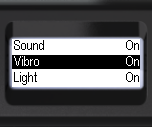
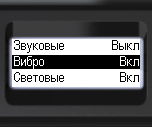
GITBOOK-31: No subject

diff --git a/guide/settings/6-signals-sound-vibration-light.md b/guide/settings/6-signals-sound-vibration-light.md
@@ -31,19 +31,18 @@ Separate permissions to play alarm sounds, buttons, clicks are available.
 | ![](<../../.gitbook/assets/settings\_modality\_Zv\_per\_h\_f (8).png>)                          | <p>- Briefly press the up/down rocker buttons to move the focus to <strong>[Signals]</strong>;<br>- Short press the round button to move the focus to <strong>[Signals].</strong></p>                                                                                                                                                                                                 | ![](<../../.gitbook/assets/settings\_signalisation\_selected\_f (1).png>)                        |
 | ----------------------------------------------------------------------------------------------- | ------------------------------------------------------------------------------------------------------------------------------------------------------------------------------------------------------------------------------------------------------------------------------------------------------------------------------------------------------------------------------------- | ------------------------------------------------------------------------------------------------ |
 | ![](<../../.gitbook/assets/settings\_signalisation\_sound\_on\_selected\_vibro\_on\_f (1).png>) | <p>- Briefly press the up/down swing buttons to move the focus to the item <strong>[Sound]</strong>;<br>- Short presses on the round button to select the sound signaling mode:<strong>[On]</strong> - all allowed sounds;<strong>[Off]</strong> - only the sounds of searching for the instrument and going out of the measuring scale remain, if it is allowed by the settings.</p> | ![](<../../.gitbook/assets/settings\_signalisation\_sound\_off\_selected\_vibro\_on\_f (1).png>) |
-| ![](<../../.gitbook/assets/settings\_signalisation\_vibro\_selected\_on\_f (1).png>)            | <p>- Vibration and light modes can be set in the same way:<br><br>- Move the focus to <strong>[Vibro]</strong> or <strong>[Light]</strong> by short presses on the up/down swing buttons;<br>- Short presses on the round button to select the <strong>[On]</strong> or <strong>[Off]</strong> mode.</p>                                                                              | ![](../../.gitbook/assets/settings\_signalisation\_light\_selected\_on\_f.png)                   |
+| ![](<../../.gitbook/assets/settings\_signalisation\_vibro\_selected\_on\_f (2).png>)            | <p>- Vibration and light modes can be set in the same way:<br><br>- Move the focus to <strong>[Vibro]</strong> or <strong>[Light]</strong> by short presses on the up/down swing buttons;<br>- Short presses on the round button to select the <strong>[On]</strong> or <strong>[Off]</strong> mode.</p>                                                                              | ![](../../.gitbook/assets/settings\_signalisation\_light\_selected\_on\_f.png)                   |
 | ![](../../.gitbook/assets/settings\_signalisation\_click\_selected\_on\_f.png)                  | <p>- The presence of gamma and X-ray photon registration clicks can be controlled separately.<br>- By short presses on the up/down swing buttons move the focus to the item <strong>[Clicks]</strong>;<br>- Short presses on the round button to select the <strong>[On]</strong> or <strong>[Off]</strong> mode.</p>                                                                 | ![](../../.gitbook/assets/settings\_signalisation\_click\_selected\_off\_f.png)                  |
 | ![](../../.gitbook/assets/settings\_signalisation\_keysound\_selected\_f.png)                   | <p>- Briefly press the up/down swing buttons to move the focus to the <strong>[Buttons]</strong>;<br>- Short press the up/down swing buttons to move the focus to <strong>[Buttons]</strong> or <strong>[Vibro]</strong>;<br>- Short press the round button to select the desired response type.</p>                                                                                  | ![](<../../.gitbook/assets/settings\_signalisation\_sound\_off\_selected\_vibro\_on\_f (2).png>) |
 
-| /                                                                   | <p>- Separately, you can control the presence of the device connection and disconnection signal.<br><br>- Briefly press the up/down swing buttons to move the focus to <strong>[Connection]</strong>;<br>- Short press the round button to select**[On]** or <strong>[Off].</strong></p> |   |
-| ------------------------------------------------------------------- | ---------------------------------------------------------------------------------------------------------------------------------------------------------------------------------------------------------------------------------------------------------------------------------------- | - |
-| !\[\[settings\_signalisation\_power\_selected\_f.png]]              | <p>- The presence of the on/off signal can be controlled separately.<br><br>- Short press the up/down swing buttons to move the focus to <strong>[Power]</strong>;<br>- Short press the round button to select**[On]** or <strong>[Off].</strong></p>                                    |   |
-| !\[\[settings\_signalisation\_alarms\_selected\_f.png]]             | <p>- To set the alarms, move the focus to <strong>[Alarms]</strong>;<br>- Press the round button briefly to confirm your selection.</p>                                                                                                                                                  |   |
-| !\[\[settings\_signals\_mode\_selected\_f.png]]                     | - Short presses on the round button to select the alarm indication mode\*\*\[One-shot]\*\* or **\[Continuous]**.                                                                                                                                                                         |   |
-| !\[\[settings\_signalisation\_alarms\_dose\_rate\_selected\_f.png]] | <p>- To select an alarm channel, move the focus to the desired item, e.g. <strong>[Dose rate]</strong>;<br>- Press the round button briefly to confirm your selection.</p>                                                                                                               |   |
-| !\[\[settings\_signalisation\_common\_alarm\_1\_selected\_f.png]]   | <p>- Briefly press the up/down swing buttons to move the focus to the desired alarm level**[Alarm 1]** or <strong>[Alarm 2]</strong>;<br>- Press the round button briefly to confirm your selection.</p>                                                                                 |   |
+| ![](../../.gitbook/assets/settings\_signalisation\_connects\_selected\_f.png)           | <p>- Separately, you can control the presence of the device connection and disconnection signal.<br><br>- Briefly press the up/down swing buttons to move the focus to <strong>[Connection]</strong>;<br>- Short press the round button to select**[On]** or <strong>[Off].</strong></p> |   |
+| --------------------------------------------------------------------------------------- | ---------------------------------------------------------------------------------------------------------------------------------------------------------------------------------------------------------------------------------------------------------------------------------------- | - |
+| ![](../../.gitbook/assets/settings\_signalisation\_power\_selected\_f.png)              | <p>- The presence of the on/off signal can be controlled separately.<br><br>- Short press the up/down swing buttons to move the focus to <strong>[Power]</strong>;<br>- Short press the round button to select**[On]** or <strong>[Off].</strong></p>                                    |   |
+| ![](../../.gitbook/assets/settings\_signalisation\_alarms\_selected\_f.png)             | <p>- To set the alarms, move the focus to <strong>[Alarms]</strong>;<br>- Press the round button briefly to confirm your selection.</p>                                                                                                                                                  |   |
+| ![](../../.gitbook/assets/settings\_signals\_mode\_selected\_f.png)                     | - Short presses on the round button to select the alarm indication mode\*\*\[One-shot]\*\* or **\[Continuous]**.                                                                                                                                                                         |   |
+| ![](../../.gitbook/assets/settings\_signalisation\_alarms\_dose\_rate\_selected\_f.png) | <p>- To select an alarm channel, move the focus to the desired item, e.g. <strong>[Dose rate]</strong>;<br>- Press the round button briefly to confirm your selection.</p>                                                                                                               |   |
+| ![](../../.gitbook/assets/settings\_signalisation\_common\_alarm\_1\_selected\_f.png)   | <p>- Briefly press the up/down swing buttons to move the focus to the desired alarm level**[Alarm 1]** or <strong>[Alarm 2]</strong>;<br>- Press the round button briefly to confirm your selection.</p>                                                                                 |   |
 
-|                                                                     |                                                                                                                                                                                                                                                                     |                                                                         |
-| ------------------------------------------------------------------- | ------------------------------------------------------------------------------------------------------------------------------------------------------------------------------------------------------------------------------------------------------------------- | ----------------------------------------------------------------------- |
-| !\[\[settings\_signalisation\_sound\_selected\_on\_f.png]]          | <p>- Short press the up/down swing buttons to move the focus to <strong>[Sound]</strong> or <strong>[Vibration]</strong>;<br>- Short press the round button to select**[On]** or <strong>[Off]</strong>;</p>                                                        | !\[\[settings\_signalisation\_vibro\_selected\_on\_f.png]]              |
-| !\[\[settings\_signalisation\_sound\_on\_vibro\_on\_return\_f.png]] | <p>- To return to the previous level or exit the menu, briefly press the up/down swing buttons to move the focus to <strong>[&#x3C; Back]</strong> or <strong>[&#x3C;&#x3C; Menu quit]</strong>;<br>- Briefly press the round button to confirm your selection.</p> | !\[\[settings\_signalisation\_sound\_on\_vibro\_on\_outoffmenu\_f.png]] |
+| ![](../../.gitbook/assets/settings\_signalisation\_sound\_selected\_on\_f.png)          | <p>- Short press the up/down swing buttons to move the focus to <strong>[Sound]</strong> or <strong>[Vibration]</strong>;<br>- Short press the round button to select**[On]** or <strong>[Off]</strong>;</p>                                                        | ![](../../.gitbook/assets/settings\_signalisation\_vibro\_selected\_on\_f.png)              |
+| --------------------------------------------------------------------------------------- | ------------------------------------------------------------------------------------------------------------------------------------------------------------------------------------------------------------------------------------------------------------------- | ------------------------------------------------------------------------------------------- |
+| ![](../../.gitbook/assets/settings\_signalisation\_sound\_on\_vibro\_on\_return\_f.png) | <p>- To return to the previous level or exit the menu, briefly press the up/down swing buttons to move the focus to <strong>[&#x3C; Back]</strong> or <strong>[&#x3C;&#x3C; Menu quit]</strong>;<br>- Briefly press the round button to confirm your selection.</p> | ![](../../.gitbook/assets/settings\_signalisation\_sound\_on\_vibro\_on\_outoffmenu\_f.png) |

diff --git a/guide/display-modes.md b/guide/display-modes.md
@@ -13,7 +13,7 @@ The Radiacode-10X series dosimeter has a single mode of operation - continuous d
 
 At any moment one of several ways of displaying the radiation situation assessment is available:
 
-!\[\[]] \[\[[#Monitor](display-modes.md#monitor) – estimation of dose rate and count rate; !\[\[dose\_sym.png]] \[\[#Dose]] – dose assessment; !\[\[lookup\_sym.png]] \[\[#Search]]– operational search; !\[\[spectrum\_sym.png]] \[\[#Spectrum]] –  energy spectrum of photon radiation.
+![](<../.gitbook/assets/dose\_rate\_sym (2).png>) \[\[[#Monitor](display-modes.md#monitor) – estimation of dose rate and count rate; ![](../.gitbook/assets/dose\_sym.png)\[\[#[Dose](display-modes.md#dose)]] – dose assessment; ![](../.gitbook/assets/lookup\_sym.png) \[\[#[Search](display-modes.md#search)]]– operational search; ![](../.gitbook/assets/spectrum\_sym.png) \[\[#[Spectrum](display-modes.md#spectrum)]] –  energy spectrum of photon radiation.
 
 During operation, the instrument also detects the exceeding of all Alarms levels. Informs the user of radiation hazards or changes in the environment.
 

diff --git a/radiacode-10x-series/device-design.md b/radiacode-10x-series/device-design.md
@@ -2,7 +2,7 @@
 
 Design elements, controls and indications controls and indications personal radiation detector Radiacode-10X series
 
-!\[\[about6.png]]
+<figure><img src="../.gitbook/assets/about6.png" alt=""><figcaption></figcaption></figure>
 
 1. Location of the radiation sensor, digital thermometer, and instrument orientation sensor.
 2. Ambient \[\[6 Signals - sound, vibration, light|light]] sensor (for backlight auto turning-on feature)

diff --git a/radiacode-10x-series/working-with-a-pc.md b/radiacode-10x-series/working-with-a-pc.md
@@ -19,4 +19,4 @@ Connection to an Android smartphone is also possible via USB OTG. When connected
 
 > \[!info] Use the OTG Adapter (USB\_Type-C)
 
-!\[\[about4.jpg]]
+![](../.gitbook/assets/about4.jpg)
